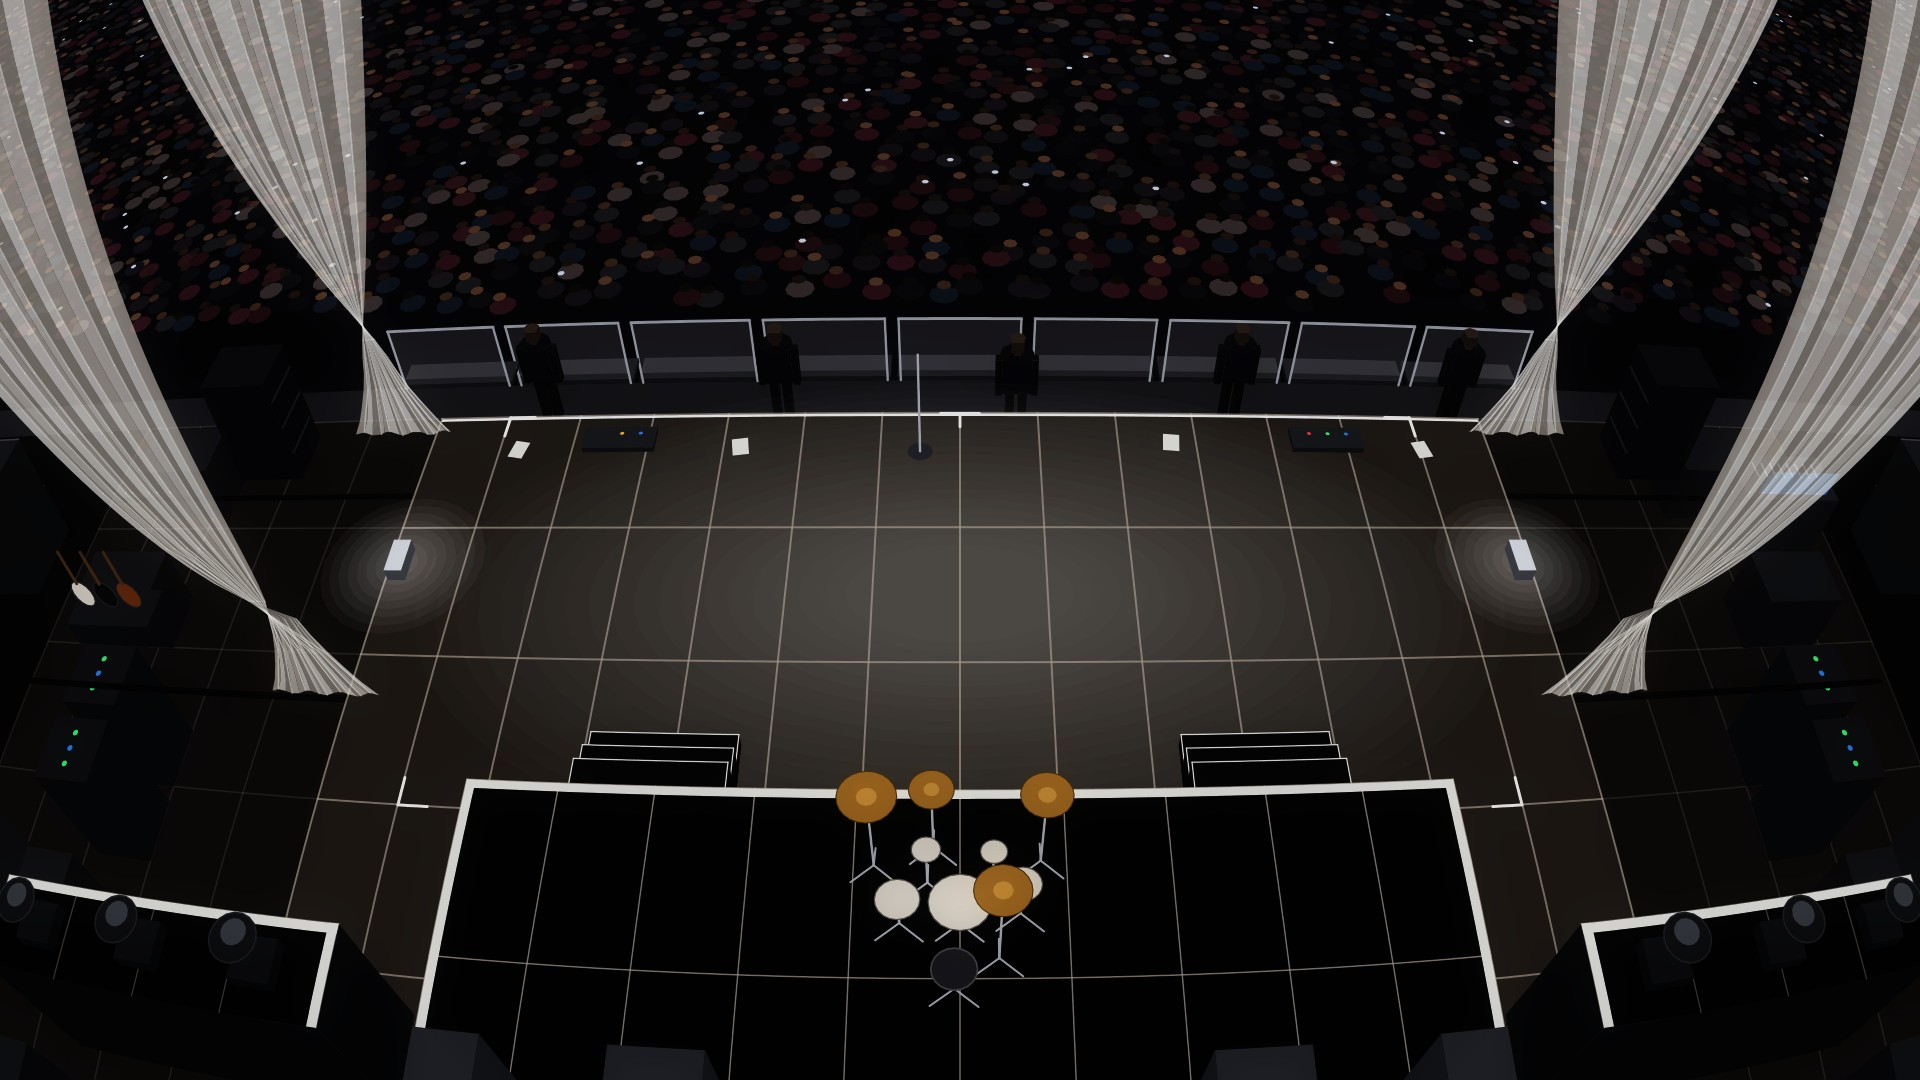
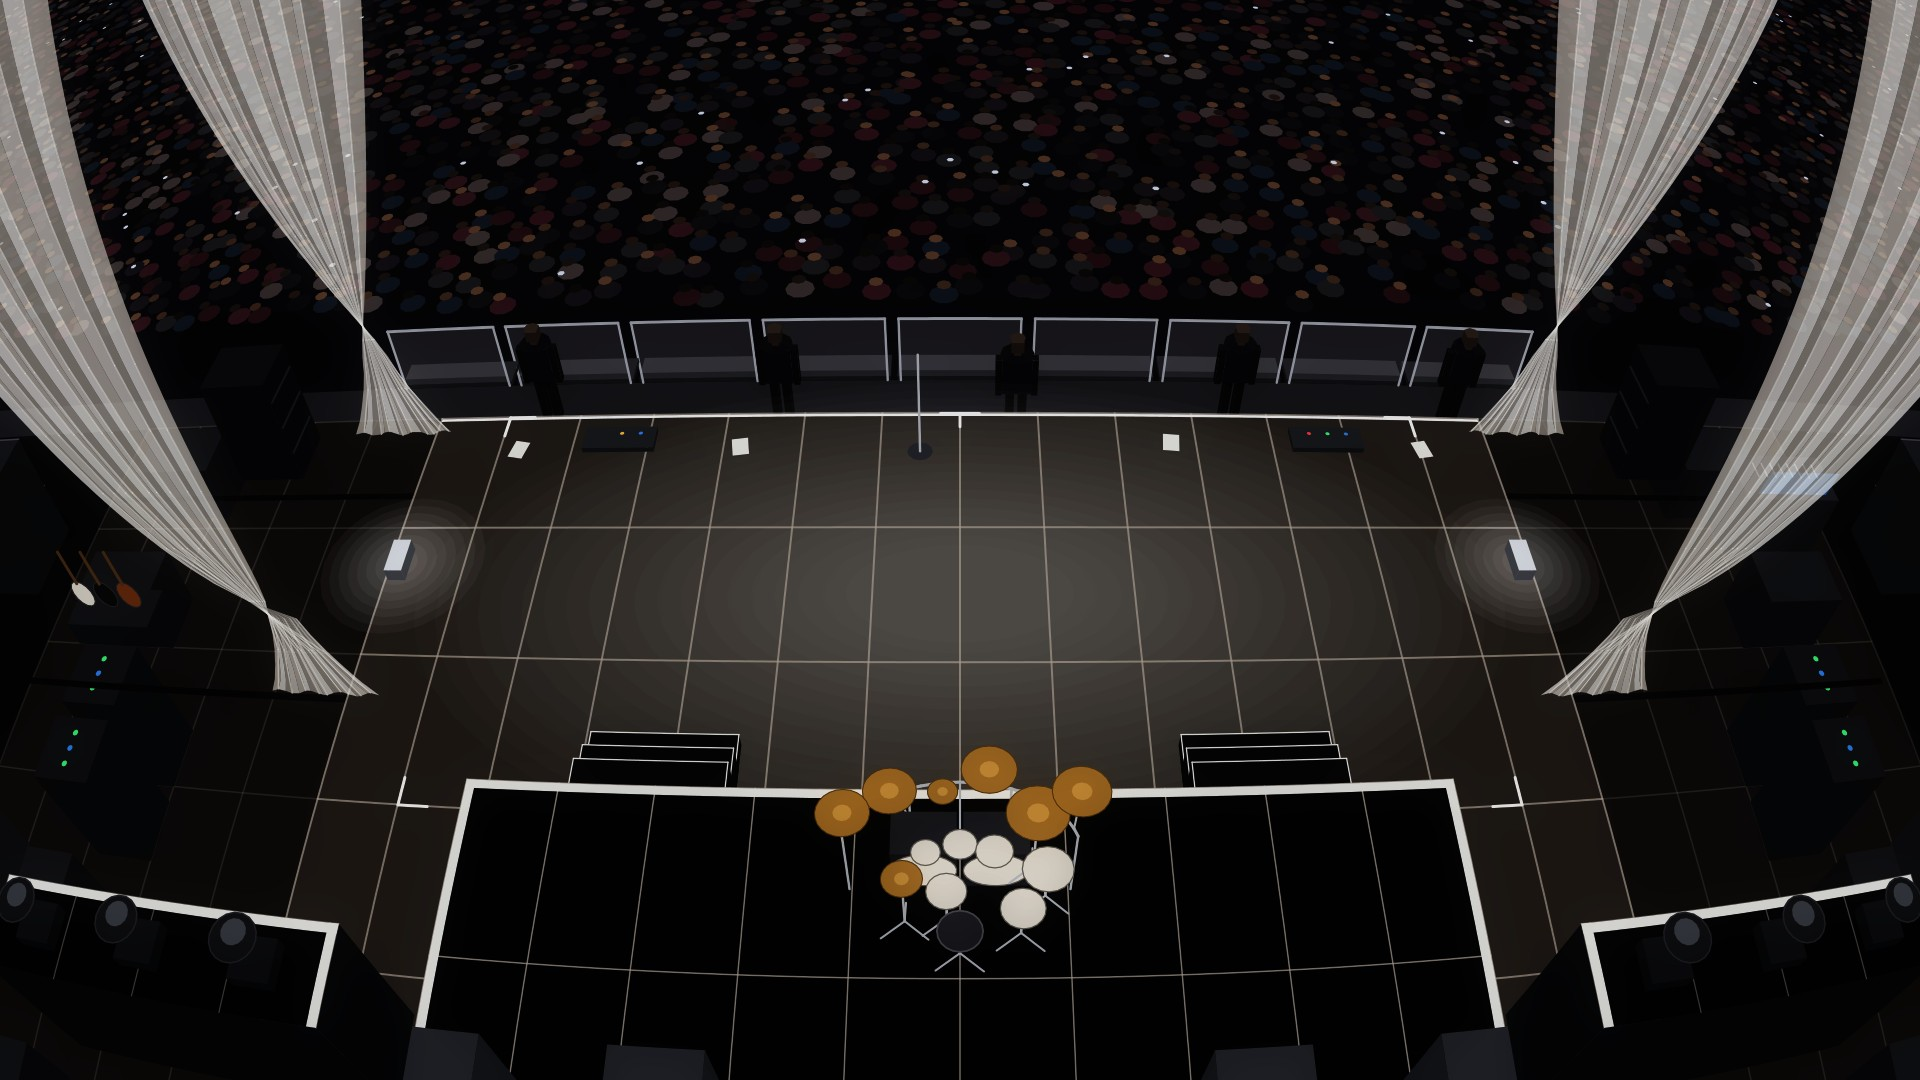
chore(gallery): lay the Concert's drum kit out as a metal kit
Two bass drums on their sides, the snare between the knees, the hi-hat
left, three rack toms in an arc, two floor toms right of the seat, the
ride right, crashes, a splash and two chinas around it on a chrome
rack, each piece drawn after what lies further from the camera.

Changed region(s): [[0.4062, 0.6722, 0.5938, 0.9167]]

diff --git a/scripts/gen_concert_default.py b/scripts/gen_concert_default.py
@@ -378,30 +378,61 @@ def riser(out: list[str]) -> None:
         out.append(poly(strip, "#f4f4f2"))
     for xa in (-4.3, -2.4, 2.4, 4.3):  # backline amps
         box(out, xa - 0.4, xa + 0.4, y1 - 0.8, y1 - 0.2, h, h + 1.2, "#3e4148", "#2b2d32")
-    drum = (0.0, y0 + 1.3)
-    drums = (
-        (0.0, 0.2, 0.28, 0.55),
-        (-0.3, -0.2, 0.12, 0.75),
-        (0.3, -0.22, 0.13, 0.75),
-        (0.55, 0.2, 0.2, 0.6),
-        (-0.55, 0.1, 0.17, 0.7),
-    )
-    cymbals = (
-        (-0.75, -0.45, 0.23, 1.3),
-        (0.8, -0.4, 0.26, 1.35),
-        (0.25, -0.6, 0.2, 1.15),
-        (-0.35, 0.55, 0.24, 1.45),
-    )
-    seat = (drum[0] + 0.05, drum[1] + 0.85)  # the drum throne behind the kit
-    for dx, dy, _r, z in (*drums, *cymbals):  # every stand under the kit, so no drum hides behind one
-        stand(out, drum[0] + dx, drum[1] + dy, h, h + z)
-    stand(out, *seat, h, h + 0.52)
-    for dx, dy, r, z in drums:
-        out.append(poly(disc(drum[0] + dx, drum[1] + dy, h + z, r, 20), "#e9e4dc", "#7a756c", 1.2))
-    for dx, dy, r, z in cymbals:
-        out.append(poly(disc(drum[0] + dx, drum[1] + dy, h + z, r, 24), "#b98a3e", "#6a4a1a", 1.0))
-        out.append(poly(disc(drum[0] + dx, drum[1] + dy, h + z + 0.001, r * 0.35, 12), "#d6aa5a"))
-    out.append(poly(disc(seat[0], seat[1], h + 0.55, 0.2, 20), "#34343a", "#6a6b72", 1.8))
+    drum_kit(out, 0.0, y0 + 1.3, h)
+
+
+# A right-handed metal kit about its centre, in metres; +x is the drummer's left (stage left),
+# -y is toward the audience. Drums: (x, y, radius, height of the head). Cymbals: (x, y, radius, height).
+KICKS = ((0.33, -0.25), (-0.33, -0.25))  # two 24" bass drums on their sides, batter heads toward the seat
+KICK_R, KICK_DEPTH = 0.3, 0.45
+DRUMS = (
+    (0.12, 0.15, 0.18, 0.66),  # snare, between the knees, a little left
+    (0.3, -0.12, 0.13, 0.88),  # rack toms, 10", 12" and 13", in an arc above the kicks
+    (0.0, -0.18, 0.15, 0.92),
+    (-0.3, -0.12, 0.165, 0.9),
+    (-0.55, 0.3, 0.2, 0.62),  # floor toms, 16" and 18", on the right beside the seat
+    (-0.78, -0.08, 0.23, 0.64),
+)
+CYMBALS = (
+    (0.5, 0.18, 0.18, 0.95),  # hi-hat, left of the snare
+    (0.15, -0.5, 0.13, 1.28),  # splash over the toms
+    (0.6, -0.42, 0.23, 1.42),  # crashes, 18" and 19"
+    (-0.25, -0.6, 0.24, 1.48),
+    (-0.68, -0.4, 0.28, 1.08),  # ride, 22", on the right
+    (0.98, -0.12, 0.23, 1.55),  # chinas at the outer edges, 18" and 20"
+    (-1.02, -0.3, 0.25, 1.6),
+)
+SEAT = (0.0, 0.5, 0.2, 0.58)
+
+
+def drum_kit(out: list[str], cx: float, cy: float, h: float) -> None:
+    """The kit about ``(cx, cy)`` on the riser at ``h``: rack, kicks, stands, then drums and cymbals, each
+    drawn after what lies further from the camera."""
+    at = lambda dx, dy, z: (cx + dx, cy + dy, h + z)  # noqa: E731
+    # The chrome rack: a curved bar in front of the kit on four legs, an arm out to each rack tom and cymbal.
+    arc = [at(1.05 * math.sin(t), -0.72 * math.cos(t) - 0.05, 1.0) for t in np.linspace(-1.35, 1.35, 25)]
+    for p0, p1 in pairwise(arc):
+        out.append(line(p0, p1, C_SILVER, 3.2))
+    for p in arc[::8]:
+        out.append(line((p[0], p[1], h), p, C_SILVER, 2.6))
+    for x, y, _r, z in (*DRUMS[1:4], *CYMBALS[1:4], CYMBALS[5], CYMBALS[6]):
+        near = min(arc, key=lambda q: (q[0] - cx - x) ** 2 + (q[1] - cy - y) ** 2)
+        out.append(line(near, at(x, y, z - 0.02), C_SILVER, 2.2))
+    for x, y in KICKS:  # shell from above, then the batter head facing the seat
+        box(out, cx + x - KICK_R, cx + x + KICK_R, cy + y - KICK_DEPTH, cy + y, h, h + 2 * KICK_R, "#2c2c33", "#1d1d22")
+        head = [at(x + KICK_R * math.cos(t), y, KICK_R + KICK_R * math.sin(t)) for t in np.linspace(0, 2 * math.pi, 28)]
+        out.append(poly(head, "#e9e4dc", "#7a756c", 1.2))
+    for x, y, _r, z in (*DRUMS[:1], *DRUMS[4:], CYMBALS[0], CYMBALS[4], SEAT):  # stand-mounted pieces
+        stand(out, cx + x, cy + y, h, h + z - 0.02)
+    pieces = [(x, y, r, z, False) for x, y, r, z in DRUMS] + [(x, y, r, z, True) for x, y, r, z in CYMBALS]
+    eye = CAMERA[:3]
+    for x, y, r, z, cymbal in sorted(pieces, key=lambda q: -math.dist(eye, at(q[0], q[1], q[3]))):
+        if cymbal:
+            out.append(poly(disc(cx + x, cy + y, h + z, r, 24), "#b98a3e", "#6a4a1a", 1.0))
+            out.append(poly(disc(cx + x, cy + y, h + z + 0.001, r * 0.35, 12), "#d6aa5a"))
+        else:
+            out.append(poly(disc(cx + x, cy + y, h + z, r, 20), "#e9e4dc", "#7a756c", 1.2))
+    out.append(poly(disc(cx + SEAT[0], cy + SEAT[1], h + SEAT[3], SEAT[2], 20), "#34343a", "#6a6b72", 1.8))
 
 
 def stand(out: list[str], x: float, y: float, z0: float, z1: float) -> None:
